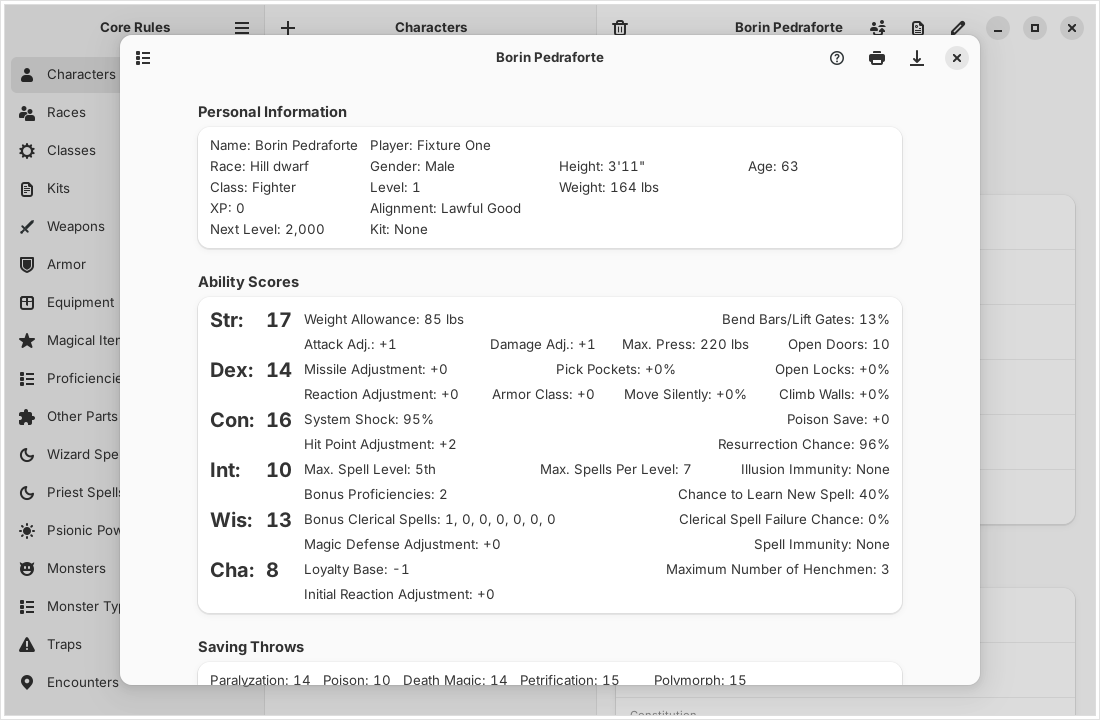
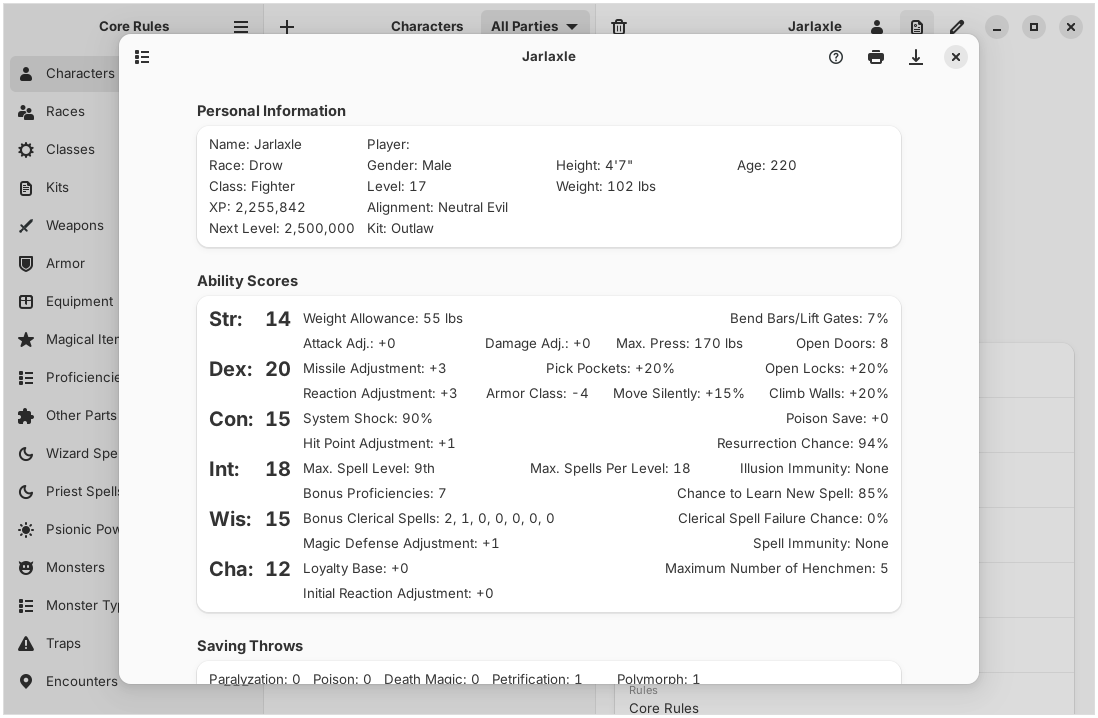
Release 1.2.0: Import Add-ons and the add-ons zip
Version 1.2.0 on Linux, Windows 11 and macOS. New Linux screenshots,
six in all: a module character with his portrait, Import Add-ons with
the collection's zip, New Character, the sheet, the red dragon's picture
and an encounter (npc, editor and package go). The README and the site
list Import Add-ons among the features and in their galleries, and link
the 1.2.0 files; release notes, metainfo, the rpm changelog, PKGBUILD,
the roadmap and decision P31 (the add-ons installer abandoned) follow.

Claude-Session: https://claude.ai/code/session_01NiPLVTeznWUMn3UYCQEAAF

diff --git a/site/index.html b/site/index.html
@@ -38,7 +38,7 @@
       <a class="btn" href="#mac">Download for Mac</a>
       <a class="btn" href="#addons">Community Add-ons</a>
     </div>
-    <p class="version">Version 1.1.0 · ready on Linux, Windows 11 and macOS</p>
+    <p class="version">Version 1.2.0 · Linux, Windows 11 and macOS · new: Import Add-ons</p>
     <p class="small">Free and open source · Requires your original AD&amp;D Core Rules discs</p>
   </div>
   <p class="art-caption"><cite>Knight at the Crossroads</cite>, Viktor Vasnetsov, 1882</p>
@@ -96,20 +96,17 @@
     <p class="eyebrow">The adventure, today</p>
     <h2>Every screen of the original</h2>
     <p class="lead">Written in Rust, Core Rules runs natively on Linux with GTK 4 and libadwaita, with no
-    Wine, and on Windows 11 with WinUI 3. It has the Character Generator with Create, Enter and Update Character,
+    Wine, on Windows 11 with WinUI 3 and on the Mac with SwiftUI. It has the Character Generator with Create, Enter and Update Character,
     kits and Player's Option, the character sheet, parties, the NPC, treasure and encounter
     generators, Table Rolls, editors for every user database, DM Toolkit packages, the rule books and
-    the help.</p>
+    the help, and imports a whole folder of community add-ons at once.</p>
     <div class="gallery">
-      <figure><a href="screenshots/character.png"><img src="screenshots/character.png" alt="The character list" loading="lazy"></a><figcaption>Characters made in the original open as they are</figcaption></figure>
+      <figure><a href="screenshots/character.png"><img src="screenshots/character.png" alt="A module character with his portrait" loading="lazy"></a><figcaption>Characters with their portraits</figcaption></figure>
+      <figure><a href="screenshots/import-addons.png"><img src="screenshots/import-addons.png" alt="Import Add-ons listing the Community Add-ons Collection" loading="lazy"></a><figcaption>New: Import Add-ons, a whole folder at once</figcaption></figure>
       <figure><a href="screenshots/new-character.png"><img src="screenshots/new-character.png" alt="Rolling ability scores in New Character" loading="lazy"></a><figcaption>New Character, Methods I to VI</figcaption></figure>
-      <figure><a href="screenshots/sheet.png"><img src="screenshots/sheet.png" alt="The character sheet" loading="lazy"></a><figcaption>The character sheet, ready to print</figcaption></figure>
-      <figure><a href="screenshots/editor.png"><img src="screenshots/editor.png" alt="Editing a character" loading="lazy"></a><figcaption>Update Character</figcaption></figure>
-      <figure><a href="screenshots/monster.png"><img src="screenshots/monster.png" alt="A monster from the Monstrous Manual" loading="lazy"></a><figcaption>Every monster of the discs</figcaption></figure>
-      <figure><a href="screenshots/npc.png"><img src="screenshots/npc.png" alt="The NPC generator" loading="lazy"></a><figcaption>NPC Generation</figcaption></figure>
-      <figure><a href="screenshots/encounter.png"><img src="screenshots/encounter.png" alt="Building an encounter" loading="lazy"></a><figcaption>Encounters from templates</figcaption></figure>
-      <figure><a href="screenshots/treasure.png"><img src="screenshots/treasure.png" alt="Rolling treasure" loading="lazy"></a><figcaption>Treasure types A to Z</figcaption></figure>
-      <figure><a href="screenshots/package.png"><img src="screenshots/package.png" alt="A DM Toolkit package" loading="lazy"></a><figcaption>DM Toolkit packages, import and export</figcaption></figure>
+      <figure><a href="screenshots/sheet.png"><img src="screenshots/sheet.png" alt="Jarlaxle's character sheet" loading="lazy"></a><figcaption>The character sheet, ready to print</figcaption></figure>
+      <figure><a href="screenshots/monster.png"><img src="screenshots/monster.png" alt="The red dragon's picture in the library" loading="lazy"></a><figcaption>Every monster of the discs, with its picture</figcaption></figure>
+      <figure><a href="screenshots/encounter.png"><img src="screenshots/encounter.png" alt="Building an orc encounter from a template" loading="lazy"></a><figcaption>Encounters from templates</figcaption></figure>
     </div>
 
     <h3 id="windows">And on Windows 11</h3>
@@ -165,14 +162,14 @@
 <section class="features">
   <div class="wrap">
     <p class="eyebrow">What's in the tome</p>
-    <h2>Everything the original did</h2>
+    <h2>Everything the original did, and more</h2>
     <div class="cards">
       <article><h3>Character Generator</h3><p>New Character, Enter Character and Update Character, with races, subraces, kits, proficiencies, rogue skills, psionics, spells learned as the rules learn them, and starting equipment.</p></article>
       <article><h3>DM Toolkit</h3><p>NPC, treasure and encounter generators, encounter templates and frequency tables, traps, Table Rolls, and packages to share with other DMs.</p></article>
       <article><h3>The library</h3><p>Races, classes, kits, items, spells, psionic powers and monsters, with their pictures and icons, and the Core Rules books in a reader with search.</p></article>
+      <article><h3>Import Add-ons</h3><p>New in 1.2.0: a whole folder of community add-ons in one go, loose or zipped, checked before anything is written, with their pictures and a backup first. The Community Add-ons Collection comes as one .zip for it.</p></article>
       <article><h3>Faithful files</h3><p>Characters, monsters, encounters and packages made in either program open in the other. Results were compared with files the original wrote.</p></article>
-      <article><h3>Six languages</h3><p>English, Português (Brasil), Español, Italiano, Français and Deutsch.</p></article>
-      <article><h3>Linux, Windows 11 and macOS</h3><p>.deb for Ubuntu, .rpm for Fedora, pacman for Arch, CachyOS and Omarchy, a Flatpak and an AppImage for Bazzite and every other distribution, the Microsoft Store for Windows 11, and a native app for Apple Silicon Macs.</p></article>
+      <article><h3>Linux, Windows 11 and macOS</h3><p>.deb for Ubuntu, .rpm for Fedora, pacman for Arch, CachyOS and Omarchy, a Flatpak and an AppImage for every other distribution, the Microsoft Store for Windows 11 and a native app for Apple Silicon Macs, in English, Português (Brasil), Español, Italiano, Français and Deutsch.</p></article>
     </div>
   </div>
 </section>
@@ -182,25 +179,25 @@
     <div class="parchment">
       <p class="eyebrow dark">Ready the horses</p>
       <h2>Download Core Rules</h2>
-      <p class="callout">Version 1.1.0, for Linux, Windows 11 and macOS</p>
+      <p class="callout">Version 1.2.0, for Linux, Windows 11 and macOS</p>
       <p>Pick the file for your system; each link downloads it directly. The Linux files are for
       x86-64; Windows 11 comes from the Microsoft Store, and the Mac file is for Apple Silicon.</p>
       <ul class="downloads">
         <li><span class="system">Ubuntu 26.04 or newer</span><span class="kind">.deb</span>
-          <a class="file" href="https://github.com/brahm/corerules/releases/download/v1.1.0/corerules_1.1.0_amd64.deb">corerules_1.1.0_amd64.deb</a>
-          <code>sudo apt install ./corerules_1.1.0_amd64.deb</code></li>
+          <a class="file" href="https://github.com/brahm/corerules/releases/download/v1.2.0/corerules_1.2.0_amd64.deb">corerules_1.2.0_amd64.deb</a>
+          <code>sudo apt install ./corerules_1.2.0_amd64.deb</code></li>
         <li><span class="system">Fedora 44 or newer</span><span class="kind">.rpm</span>
-          <a class="file" href="https://github.com/brahm/corerules/releases/download/v1.1.0/corerules-1.1.0-1.fc44.x86_64.rpm">corerules-1.1.0-1.fc44.x86_64.rpm</a>
-          <code>sudo dnf install ./corerules-1.1.0-1.fc44.x86_64.rpm</code></li>
+          <a class="file" href="https://github.com/brahm/corerules/releases/download/v1.2.0/corerules-1.2.0-1.fc44.x86_64.rpm">corerules-1.2.0-1.fc44.x86_64.rpm</a>
+          <code>sudo dnf install ./corerules-1.2.0-1.fc44.x86_64.rpm</code></li>
         <li><span class="system">Arch Linux, CachyOS, Omarchy</span><span class="kind">pacman</span>
-          <a class="file" href="https://github.com/brahm/corerules/releases/download/v1.1.0/corerules-1.1.0-1-x86_64.pkg.tar.zst">corerules-1.1.0-1-x86_64.pkg.tar.zst</a>
-          <code>sudo pacman -U ./corerules-1.1.0-1-x86_64.pkg.tar.zst</code></li>
+          <a class="file" href="https://github.com/brahm/corerules/releases/download/v1.2.0/corerules-1.2.0-1-x86_64.pkg.tar.zst">corerules-1.2.0-1-x86_64.pkg.tar.zst</a>
+          <code>sudo pacman -U ./corerules-1.2.0-1-x86_64.pkg.tar.zst</code></li>
         <li><span class="system">Bazzite, or any distribution with Flatpak</span><span class="kind">Flatpak</span>
           <a class="file" href="io.github.brahm.CoreRules.flatpakref">io.github.brahm.CoreRules.flatpakref</a>
           <code>flatpak install --user https://brahm.github.io/corerules/io.github.brahm.CoreRules.flatpakref</code></li>
         <li><span class="system">Any distribution (glibc 2.43+)</span><span class="kind">AppImage</span>
-          <a class="file" href="https://github.com/brahm/corerules/releases/download/v1.1.0/CoreRules-1.1.0-x86_64.AppImage">CoreRules-1.1.0-x86_64.AppImage</a>
-          <code>chmod +x CoreRules-1.1.0-x86_64.AppImage</code></li>
+          <a class="file" href="https://github.com/brahm/corerules/releases/download/v1.2.0/CoreRules-1.2.0-x86_64.AppImage">CoreRules-1.2.0-x86_64.AppImage</a>
+          <code>chmod +x CoreRules-1.2.0-x86_64.AppImage</code></li>
         <li><span class="system">Community Add-ons, for Linux, Windows and macOS</span><span class="kind">.zip</span>
           <a class="file" href="https://github.com/brahm/corerules/releases/download/addons/CoreRules-Community-Addons.zip">CoreRules-Community-Addons.zip</a>
           <span class="file-note">In Core Rules, choose Import Add-ons… and pick the folder that holds the zip (<a href="#addons">how</a>).</span></li>
@@ -208,7 +205,7 @@
           <a class="file" href="https://apps.microsoft.com/detail/9nr2cgp649jm">Core Rules on the Microsoft Store</a>
           <span class="file-note">Free; the Store installs it with the Windows App Runtime it needs and brings every update.</span></li>
         <li id="mac"><span class="system">macOS 14 or newer, Apple Silicon (M1 or newer)</span><span class="kind">.dmg</span>
-          <a class="file" href="https://github.com/brahm/corerules/releases/download/v1.1.0/CoreRules-1.1.0-arm64.dmg">CoreRules-1.1.0-arm64.dmg</a>
+          <a class="file" href="https://github.com/brahm/corerules/releases/download/v1.2.0/CoreRules-1.2.0-arm64.dmg">CoreRules-1.2.0-arm64.dmg</a>
           <span class="file-note">Open it and drag Core Rules to Applications, then let macOS open it once, as below.</span></li>
       </ul>
       <p class="tested"><span>Tested by players on</span> Fedora 45 beta · Ubuntu 26.10 · Bazzite · Arch Linux · CachyOS · Windows 11 · macOS</p>
@@ -236,10 +233,10 @@
       file, which gets no updates, run <code>flatpak uninstall --user io.github.brahm.CoreRules</code> and
       install from the repository; your files stay. The AppImage bundles GTK, libadwaita and the other GNOME 51 libraries. Update
       Arch first (<code>sudo pacman -Syu</code>), or build the package from source with its
-      <a href="https://github.com/brahm/corerules/releases/download/v1.1.0/PKGBUILD">PKGBUILD</a>. The checksums of every file are in
-      <a href="https://github.com/brahm/corerules/releases/download/v1.1.0/SHA256SUMS">SHA256SUMS</a>.</p>
+      <a href="https://github.com/brahm/corerules/releases/download/v1.2.0/PKGBUILD">PKGBUILD</a>. The checksums of every file are in
+      <a href="https://github.com/brahm/corerules/releases/download/v1.2.0/SHA256SUMS">SHA256SUMS</a>.</p>
       <div class="actions left">
-        <a class="btn primary" href="https://github.com/brahm/corerules/releases/tag/v1.1.0">Release notes</a>
+        <a class="btn primary" href="https://github.com/brahm/corerules/releases/tag/v1.2.0">Release notes</a>
         <a class="btn dark" href="https://github.com/brahm/corerules">Source code</a>
       </div>
 

diff --git a/README.md b/README.md
@@ -4,15 +4,16 @@
 
 # Core Rules
 
-**Core Rules** is a complete Linux and Windows 11 version of **AD&D Core
-Rules 2.0** and its **Expansion** (TSR/Evermore, 1998-1999), the character
-manager and Dungeon Master's toolkit for Advanced Dungeons & Dragons 2nd
-Edition. It is written in Rust and runs natively: with GTK 4 and libadwaita
-on Linux, with no Wine, and with WinUI 3 on Windows 11. On Linux it comes as
-a `.deb` for Ubuntu, an `.rpm` for Fedora, a pacman package for Arch Linux
-(and CachyOS and Omarchy), a Flatpak and an AppImage; on Windows 11 it comes
-from the [Microsoft Store](https://apps.microsoft.com/detail/9nr2cgp649jm). Both versions are
-final releases. See
+**Core Rules** is a complete Linux, Windows 11 and macOS version of **AD&D
+Core Rules 2.0** and its **Expansion** (TSR/Evermore, 1998-1999), the
+character manager and Dungeon Master's toolkit for Advanced Dungeons &
+Dragons 2nd Edition. It is written in Rust and runs natively: with GTK 4 and
+libadwaita on Linux, with no Wine, with WinUI 3 on Windows 11 and with
+SwiftUI on the Mac. On Linux it comes as a `.deb` for Ubuntu, an `.rpm` for
+Fedora, a pacman package for Arch Linux (and CachyOS and Omarchy), a Flatpak
+and an AppImage; on Windows 11 it comes from the
+[Microsoft Store](https://apps.microsoft.com/detail/9nr2cgp649jm), and on
+Apple Silicon Macs as a `.dmg`. All three are final releases. See
 [Installing](#installing).
 
 Every screen of the original program is here: the Character Generator with
@@ -23,7 +24,10 @@ the help. The app reads and writes the original's own data files, so
 characters, monsters, encounters and packages made in either program open
 in the other.
 
-> **Version 1.1.0, ready on Linux, Windows 11 and macOS.** Every feature
+> **Version 1.2.0, on Linux, Windows 11 and macOS.** New in 1.2.0:
+> **Import Add-ons…** brings in every add-on in a folder at once, and the
+> [Community Add-ons Collection](#community-add-ons) comes as one `.zip`
+> for it, on all three systems. Every feature
 > was checked against the original programs and went through a full round
 > of manual tests. Players and Dungeon Masters ran 1.0 on Fedora 45 beta,
 > Ubuntu 26.10, Bazzite, Arch Linux and CachyOS, and the Windows 11 and
@@ -32,7 +36,7 @@ in the other.
 > it from the [Microsoft Store](https://apps.microsoft.com/detail/9nr2cgp649jm),
 > or visit the [website](https://brahm.github.io/corerules/).
 
-![The character list with a character made in the original program](docs/screenshots/character.png)
+![A module character with his portrait, from the Community Add-ons](docs/screenshots/character.png)
 
 ### On Windows 11
 
@@ -104,9 +108,10 @@ preserved by the Internet Archive:
    this repository over the same backend, distributed as a `.dmg`. After a
    beta it was released as 1.1.0 on the three systems, and from now on
    every feature ships on all three together.
-5. **New features.** From then on the app improves on the original and
-   moves away from it, step by step, until it no longer needs the original
-   program's files to work.
+5. **New features (in progress).** From then on the app improves on the
+   original and moves away from it, step by step, until it no longer needs
+   the original program's files to work. 1.2.0 brings the first:
+   Import Add-ons… and the Community Add-ons Collection as a `.zip`.
 
 The [roadmap](docs/roadmap.md) has the plan, what is done and what each
 step needs; the [decision log](docs/decisions.md) records every decision
@@ -267,7 +272,7 @@ the original programs wrote.
 
 <p>
   <img src="docs/screenshots/new-character.png" width="49%" alt="The New Character wizard rolling ability scores">
-  <img src="docs/screenshots/sheet.png" width="49%" alt="The character sheet of a character">
+  <img src="docs/screenshots/sheet.png" width="49%" alt="Jarlaxle's character sheet">
 </p>
 
 ### DM Toolkit
@@ -330,20 +335,19 @@ the original programs wrote.
   Conflict asks for another name when a part has that one too; as in the
   Expansion, opening the folder renames the kits, nonweapon proficiencies,
   schools and magical items of yours that a standard one's name hides
+- **Import Add-ons…** imports every add-on in a folder at once: the
+  folder, its subfolders and its ZIP archives (also ZIPs inside ZIPs) are
+  read, each `.xpx` and `.xpt` package is told apart by what it holds, and
+  the list shows what comes in, what was found twice and what cannot be
+  imported before anything is written. It backs up the user databases and
+  characters first, imports from the oldest file to the newest, leaves out
+  the characters already in the list, copies the add-ons' pictures where
+  their records look for them and writes a log (see
+  [Community add-ons](#community-add-ons))
 
 <p>
-  <img src="docs/screenshots/npc.png" width="49%" alt="The New NPC dialog">
-  <img src="docs/screenshots/encounter.png" width="49%" alt="An orc lair encounter generated from its template">
-</p>
-
-<p>
-  <img src="docs/screenshots/treasure.png" width="49%" alt="Treasure rolled for treasure types A and H">
-  <img src="docs/screenshots/editor.png" width="49%" alt="The editor for a new wizard spell">
-</p>
-
-<p>
-  <img src="docs/screenshots/package.png" width="49%" alt="A new package with two characters and an encounter">
-  <img src="docs/screenshots/monster.png" width="49%" alt="A monster's page in the library">
+  <img src="docs/screenshots/encounter.png" width="49%" alt="An orc encounter generated from its template">
+  <img src="docs/screenshots/monster.png" width="49%" alt="The red dragon's picture in the library">
 </p>
 
 ### Core Rules 2.0 and the Expansion
@@ -501,28 +505,28 @@ same:
 Every [release](https://github.com/brahm/corerules/releases) has
 packages for x86-64 Linux and a `.dmg` for Apple Silicon Macs. These are
 the files of
-[Core Rules 1.1.0](https://github.com/brahm/corerules/releases/tag/v1.1.0),
+[Core Rules 1.2.0](https://github.com/brahm/corerules/releases/tag/v1.2.0),
 the latest release; Windows 11 comes from the
 [Microsoft Store](#windows-11):
 
 | System | Download | Install |
 | --- | --- | --- |
-| macOS 14 or newer, Apple Silicon | [`CoreRules-1.1.0-arm64.dmg`](https://github.com/brahm/corerules/releases/download/v1.1.0/CoreRules-1.1.0-arm64.dmg) | Open it, drag Core Rules to Applications, then [allow it to open](#macos) |
-| Fedora 44 or newer | [`corerules-1.1.0-1.fc44.x86_64.rpm`](https://github.com/brahm/corerules/releases/download/v1.1.0/corerules-1.1.0-1.fc44.x86_64.rpm) | `sudo dnf install ./corerules-1.1.0-1.fc44.x86_64.rpm` |
-| Ubuntu 26.04 or newer | [`corerules_1.1.0_amd64.deb`](https://github.com/brahm/corerules/releases/download/v1.1.0/corerules_1.1.0_amd64.deb) | `sudo apt install ./corerules_1.1.0_amd64.deb` |
-| Arch Linux, CachyOS, Omarchy | [`corerules-1.1.0-1-x86_64.pkg.tar.zst`](https://github.com/brahm/corerules/releases/download/v1.1.0/corerules-1.1.0-1-x86_64.pkg.tar.zst) | `sudo pacman -U ./corerules-1.1.0-1-x86_64.pkg.tar.zst` |
+| macOS 14 or newer, Apple Silicon | [`CoreRules-1.2.0-arm64.dmg`](https://github.com/brahm/corerules/releases/download/v1.2.0/CoreRules-1.2.0-arm64.dmg) | Open it, drag Core Rules to Applications, then [allow it to open](#macos) |
+| Fedora 44 or newer | [`corerules-1.2.0-1.fc44.x86_64.rpm`](https://github.com/brahm/corerules/releases/download/v1.2.0/corerules-1.2.0-1.fc44.x86_64.rpm) | `sudo dnf install ./corerules-1.2.0-1.fc44.x86_64.rpm` |
+| Ubuntu 26.04 or newer | [`corerules_1.2.0_amd64.deb`](https://github.com/brahm/corerules/releases/download/v1.2.0/corerules_1.2.0_amd64.deb) | `sudo apt install ./corerules_1.2.0_amd64.deb` |
+| Arch Linux, CachyOS, Omarchy | [`corerules-1.2.0-1-x86_64.pkg.tar.zst`](https://github.com/brahm/corerules/releases/download/v1.2.0/corerules-1.2.0-1-x86_64.pkg.tar.zst) | `sudo pacman -U ./corerules-1.2.0-1-x86_64.pkg.tar.zst` |
 | Any distribution with Flatpak, such as Bazzite | [`io.github.brahm.CoreRules.flatpakref`](https://brahm.github.io/corerules/io.github.brahm.CoreRules.flatpakref), from the [Flatpak repository](#the-flatpak-repository) | `flatpak install --user https://brahm.github.io/corerules/io.github.brahm.CoreRules.flatpakref` |
-| Any distribution (glibc 2.43+) | [`CoreRules-1.1.0-x86_64.AppImage`](https://github.com/brahm/corerules/releases/download/v1.1.0/CoreRules-1.1.0-x86_64.AppImage) | `chmod +x CoreRules-1.1.0-x86_64.AppImage`, then run it |
+| Any distribution (glibc 2.43+) | [`CoreRules-1.2.0-x86_64.AppImage`](https://github.com/brahm/corerules/releases/download/v1.2.0/CoreRules-1.2.0-x86_64.AppImage) | `chmod +x CoreRules-1.2.0-x86_64.AppImage`, then run it |
 | Community add-ons, for every system above | [`CoreRules-Community-Addons.zip`](https://github.com/brahm/corerules/releases/download/addons/CoreRules-Community-Addons.zip) | In Core Rules, Import Add-ons…, then pick the folder that holds the zip ([how](#community-add-ons)) |
 
 The release also has the
-[`CoreRules-1.1.0.flatpak`](https://github.com/brahm/corerules/releases/download/v1.1.0/CoreRules-1.1.0.flatpak)
+[`CoreRules-1.2.0.flatpak`](https://github.com/brahm/corerules/releases/download/v1.2.0/CoreRules-1.2.0.flatpak)
 file, the
-[`PKGBUILD`](https://github.com/brahm/corerules/releases/download/v1.1.0/PKGBUILD)
+[`PKGBUILD`](https://github.com/brahm/corerules/releases/download/v1.2.0/PKGBUILD)
 of the pacman package and
-[`SHA256SUMS`](https://github.com/brahm/corerules/releases/download/v1.1.0/SHA256SUMS),
+[`SHA256SUMS`](https://github.com/brahm/corerules/releases/download/v1.2.0/SHA256SUMS),
 the checksums of every file. Before 1.0 there were betas (0.x) and release
-candidates (`-rc`), marked as pre-releases on the releases page; the 1.1.0
+candidates (`-rc`), marked as pre-releases on the releases page; the 1.2.0
 packages replace 1.0.0 or a release candidate on update.
 
 Users ran 1.0 on Fedora 45 beta (the `.rpm`), Ubuntu 26.10 (the `.deb`),
@@ -567,7 +571,7 @@ opens an installation of the original program on the same computer.
 
 The Mac version is for Apple Silicon Macs (M1 or newer) with macOS 14 or
 newer. Download
-[`CoreRules-1.1.0-arm64.dmg`](https://github.com/brahm/corerules/releases/download/v1.1.0/CoreRules-1.1.0-arm64.dmg),
+[`CoreRules-1.2.0-arm64.dmg`](https://github.com/brahm/corerules/releases/download/v1.2.0/CoreRules-1.2.0-arm64.dmg),
 open it and drag Core Rules to Applications.
 
 The app is signed without a certificate from Apple and is not notarized,
@@ -673,7 +677,7 @@ one `.zip`, on every system the app runs on:
 
 This link always gives the newest build; the
 [addons release](https://github.com/brahm/corerules/releases/tag/addons)
-also keeps each version. To import it:
+also keeps each version. To import it (Core Rules 1.2.0 or newer):
 
 1. Put the zip in a folder of its own. There is no need to extract it.
 2. In Core Rules, choose **Import Add-ons…** (the main menu on Linux, the
@@ -684,6 +688,8 @@ also keeps each version. To import it:
 The collection's [README](addons/README.md) says what is inside, how it was
 built and how to undo an import. A Linux installer (an AppImage) carried the
 add-ons until 1.1.0; Import Add-ons… replaces it.
+
+![Import Add-ons… listing the Community Add-ons Collection before importing it](docs/screenshots/import-addons.png)
 
 **Import Add-ons…**, in the main menu on Linux, the More menu on Windows
 and the File menu on the Mac, brings in every add-on in a folder at once.

diff --git a/packaging/release-notes.md b/packaging/release-notes.md
@@ -1,23 +1,32 @@
-**Core Rules 1.1.0: now on macOS.** Core Rules now runs on Linux,
-Windows 11 and macOS, with the same features on all three, the same
-backend and the same data files. The Mac version is native. It looks and
-works like a Mac app: the sections, the entries and the details in three
-columns, every action in the menu bar, and the sheets, the help and the
-generators in their own windows. It went through a beta (1.1.0-beta1) on
-an Apple Silicon Mac, where it worked as it should. Nothing changes in
-what the Linux and Windows 11 versions do. More of their code is now
-shared by the three versions. Characters and user databases work on all
-three systems and in the original programs.
+**Core Rules 1.2.0: Import Add-ons.** A new command, **Import Add-ons…**
+(the main menu on Linux, the More menu on Windows, the File menu on the
+Mac), imports every add-on in a folder at once. It reads the folder, its
+subfolders and its ZIP archives (also ZIPs inside ZIPs, as the community
+shared them), tells each `.xpx` and `.xpt` package apart by what it holds,
+and lists what comes in, what was found twice and what cannot be imported,
+with why, before anything is written. Then it backs up the user databases
+and characters, imports from the oldest file to the newest, leaves out the
+characters already in the list, copies the add-ons' pictures to where
+their records look for them and writes a log.
+
+**The Community Add-ons Collection as a .zip.** The 672 community add-ons
+(36,525 items, 668 pictures and the authors' texts) now come as one file,
+[`CoreRules-Community-Addons.zip`](https://github.com/brahm/corerules/releases/download/addons/CoreRules-Community-Addons.zip),
+on the [addons release](https://github.com/brahm/corerules/releases/tag/addons).
+Put it in a folder of its own, choose Import Add-ons… and pick that folder;
+there is no need to extract it. The whole collection comes in in about a
+minute, on Linux, Windows 11 and macOS. The Linux add-ons installer (an
+AppImage) is no longer published: the zip and Import Add-ons replace it.
 
 | System | File | Install |
 | --- | --- | --- |
-| macOS 14 or newer, Apple Silicon (M1 or newer) | `CoreRules-1.1.0-arm64.dmg` | Open it and drag Core Rules to Applications, then see below |
+| macOS 14 or newer, Apple Silicon (M1 or newer) | `CoreRules-1.2.0-arm64.dmg` | Open it and drag Core Rules to Applications, then see below |
 | Windows 11 | [Microsoft Store](https://apps.microsoft.com/detail/9nr2cgp649jm) | Get it from the Store page |
-| Fedora 44 or newer | `corerules-1.1.0-1.fc44.x86_64.rpm` | `sudo dnf install ./corerules-1.1.0-1.fc44.x86_64.rpm` |
-| Ubuntu 26.04 or newer | `corerules_1.1.0_amd64.deb` | `sudo apt install ./corerules_1.1.0_amd64.deb` |
-| Arch Linux, CachyOS, Omarchy | `corerules-1.1.0-1-x86_64.pkg.tar.zst` | `sudo pacman -U ./corerules-1.1.0-1-x86_64.pkg.tar.zst` |
+| Fedora 44 or newer | `corerules-1.2.0-1.fc44.x86_64.rpm` | `sudo dnf install ./corerules-1.2.0-1.fc44.x86_64.rpm` |
+| Ubuntu 26.04 or newer | `corerules_1.2.0_amd64.deb` | `sudo apt install ./corerules_1.2.0_amd64.deb` |
+| Arch Linux, CachyOS, Omarchy | `corerules-1.2.0-1-x86_64.pkg.tar.zst` | `sudo pacman -U ./corerules-1.2.0-1-x86_64.pkg.tar.zst` |
 | Any distribution with Flatpak, such as Bazzite | The [Flatpak repository](https://brahm.github.io/corerules/io.github.brahm.CoreRules.flatpakref) | `flatpak install --user https://brahm.github.io/corerules/io.github.brahm.CoreRules.flatpakref` |
-| Any distribution (glibc 2.43+) | `CoreRules-1.1.0-x86_64.AppImage` | `chmod +x CoreRules-1.1.0-x86_64.AppImage`, then run it |
+| Any distribution (glibc 2.43+) | `CoreRules-1.2.0-x86_64.AppImage` | `chmod +x CoreRules-1.2.0-x86_64.AppImage`, then run it |
 
 **Opening it on a Mac the first time.** The Mac app is signed without a
 certificate from Apple and is not notarized, because the project has no

diff --git a/docs/roadmap.md b/docs/roadmap.md
@@ -6,7 +6,11 @@ what comes after 1.0. The decisions that shaped it are in the
 
 ## Where we are
 
-**1.1.0, published on 2026-10-29, ready on Linux, Windows 11 and macOS.**
+**1.2.0, published on 2026-10-30, on Linux, Windows 11 and macOS**, is
+the first release of step 4: Import Add-ons… imports every add-on in a
+folder at once, and the Community Add-ons Collection comes as one `.zip`
+for it, replacing the Linux add-ons installer (decision P31).
+**1.1.0, published on 2026-10-29, was ready on Linux, Windows 11 and macOS.**
 The macOS version went through a beta (1.1.0-beta1) on Wagner Brahm's
 Mac, where it worked as it should, and ships with the other two as 1.1.0
 (decision P30). 1.0.1, published on 2026-10-27, brought the Windows 11
@@ -90,6 +94,7 @@ taken out of scope.
 | 1.0.0 | 2026-10-24 | First stable release, the About window, the website |
 | 1.0.1 | 2026-10-27 | Windows 11 on the Microsoft Store, the Flatpak repository, small fixes |
 | 1.1.0 | 2026-10-29 | macOS, as a `.dmg` for Apple Silicon |
+| 1.2.0 | 2026-10-30 | Import Add-ons…, the Community Add-ons Collection as a `.zip` |
 
 ## After 1.0
 
@@ -643,7 +648,7 @@ The phases run in order:
 
 Done on 2026-10-29 with 1.1.0.
 
-### Step 4: new features, and independence from the original
+### Step 4: new features, and independence from the original (in progress)
 
 From 1.0 on, the app improves on the original and moves away from it step
 by step, until it no longer needs the original's files to work
@@ -668,6 +673,13 @@ starts, from Wagner Brahm's ideas and the users' requests; this is the direction
 
 Needs Wagner Brahm: the list of features for each release, and how far
 independence goes (step 4.3).
+
+Released so far:
+
+- **1.2.0** (2026-10-30): Import Add-ons… imports a folder of add-ons, with
+  its subfolders and ZIP archives, in one go, with a backup, the pictures
+  and a log; the Community Add-ons Collection ships as a `.zip` for it, and
+  the Linux add-ons installer is gone (decision P31).
 
 ## Decisions pending
 

diff --git a/docs/decisions.md b/docs/decisions.md
@@ -126,3 +126,4 @@ Reported during testing and kept, because the original does the same:
 | P28 | 2026-10-28 | The macOS version runs on Apple Silicon only, not as a universal binary: macOS 26 is the last version for Intel Macs. | Decided by Wagner Brahm |
 | P29 | 2026-10-28 | The macOS version is distributed as a `.dmg` on the GitHub release, without an Apple developer account: it is signed without a certificate from Apple and not notarized. macOS blocks its first launch, and again after each update, until the user chooses Open Anyway in System Settings › Privacy & Security; a managed Mac may not allow it, and Homebrew's own casks are not an option. On macOS the data package lives in `~/Library/Application Support/Core Rules/data`, which asks no permission. | Decided by Wagner Brahm, [Roadmap](roadmap.md#step-3-macos-done) |
 | P30 | 2026-10-29 | The macOS version leaves its beta as a final release: Wagner Brahm found it working on an Apple Silicon Mac. Linux, Windows 11 and macOS are released together as 1.1.0, with the same tag, and the website links the `.dmg` with the Open Anyway steps. | Decided by Wagner Brahm, 1.1.0 |
+| P31 | 2026-10-30 | The Linux add-ons installer (the `cr-addons` AppImage, also on GitHub Packages) is abandoned. The Community Add-ons Collection ships only as `CoreRules-Community-Addons.zip` on the addons release, and Import Add-ons… in the app, on Linux, Windows 11 and macOS, is the way to bring it and any other add-ons in. | Decided by Wagner Brahm, 1.2.0 |
